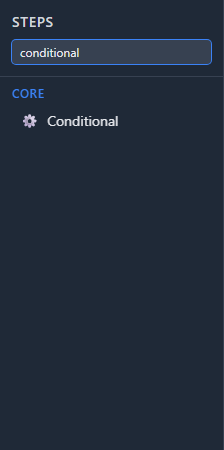
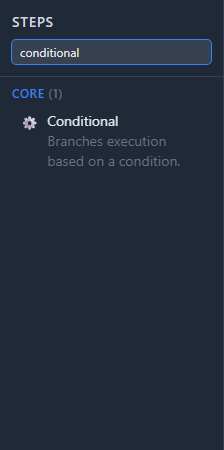
feat(dashboard): improve template and palette discovery
Make the Flowise-style library surfaces easier to use by adding template-browser search, category counts, tag chips, and empty states, plus richer step-palette descriptions and description-aware filtering. The slice is covered by the template-browser scenarios and the existing palette-search UI flow, and the dashboard screenshots were refreshed to match the updated experience.

Changed region(s): [[0.1875, 0.28, 0.8125, 0.3733], [0.0938, 0.2489, 0.1875, 0.3111], [0.2188, 0.1867, 0.2812, 0.2178]]

diff --git a/tests/WorkflowFramework.Dashboard.UITests/Features/Templates.feature.cs b/tests/WorkflowFramework.Dashboard.UITests/Features/Templates.feature.cs
@@ -124,55 +124,77 @@ Feature: Templates
     And I select a template
     And I click ""Use This Template""
     Then a new workflow should be created with the template steps
+
+  Scenario: Filter templates by search
+    Given the dashboard is running
+    When I open the template browser
+    And I search templates for ""agent""
+    Then I should only see template results matching ""agent""
 ", global::Io.Cucumber.Messages.Types.SourceMediaType.TEXT_X_CUCUMBER_GHERKIN_PLAIN);
         }
         
         private static global::Io.Cucumber.Messages.Types.GherkinDocument GherkinDocumentFunc()
         {
             return new global::Io.Cucumber.Messages.Types.GherkinDocument("Features/Templates.feature", new global::Io.Cucumber.Messages.Types.Feature(new global::Io.Cucumber.Messages.Types.Location(2, new System.Nullable<long>(1)), new System.Collections.Generic.List<global::Io.Cucumber.Messages.Types.Tag>(new global::Io.Cucumber.Messages.Types.Tag[] {
-                                new global::Io.Cucumber.Messages.Types.Tag(new global::Io.Cucumber.Messages.Types.Location(1, new System.Nullable<long>(1)), "@UI", "1039a7369a57a350928fdfa977e7f34f")}), "en", "Feature", "Templates", "  As a user I can create workflows from pre-built templates", new System.Collections.Generic.List<global::Io.Cucumber.Messages.Types.FeatureChild>(new global::Io.Cucumber.Messages.Types.FeatureChild[] {
+                                new global::Io.Cucumber.Messages.Types.Tag(new global::Io.Cucumber.Messages.Types.Location(1, new System.Nullable<long>(1)), "@UI", "88f6b904b4efd25580fffa829d8d9b9c")}), "en", "Feature", "Templates", "  As a user I can create workflows from pre-built templates", new System.Collections.Generic.List<global::Io.Cucumber.Messages.Types.FeatureChild>(new global::Io.Cucumber.Messages.Types.FeatureChild[] {
                                 new global::Io.Cucumber.Messages.Types.FeatureChild(null, null, new global::Io.Cucumber.Messages.Types.Scenario(new global::Io.Cucumber.Messages.Types.Location(6, new System.Nullable<long>(3)), new System.Collections.Generic.List<global::Io.Cucumber.Messages.Types.Tag>(new global::Io.Cucumber.Messages.Types.Tag[] {
-                                                    new global::Io.Cucumber.Messages.Types.Tag(new global::Io.Cucumber.Messages.Types.Location(5, new System.Nullable<long>(3)), "@screenshot:template-browser", "1e5e24a1c136835893821f48e5946e72")}), "Scenario", "Browse templates", "", new System.Collections.Generic.List<global::Io.Cucumber.Messages.Types.Step>(new global::Io.Cucumber.Messages.Types.Step[] {
-                                                    new global::Io.Cucumber.Messages.Types.Step(new global::Io.Cucumber.Messages.Types.Location(7, new System.Nullable<long>(5)), "Given ", global::Io.Cucumber.Messages.Types.StepKeywordType.CONTEXT, "the dashboard is running", null, null, "5791ab1fc140675c960ae6f369b49166"),
-                                                    new global::Io.Cucumber.Messages.Types.Step(new global::Io.Cucumber.Messages.Types.Location(8, new System.Nullable<long>(5)), "When ", global::Io.Cucumber.Messages.Types.StepKeywordType.ACTION, "I open the template browser", null, null, "60ecfc0d6fa14b5085c14bbddae71745"),
-                                                    new global::Io.Cucumber.Messages.Types.Step(new global::Io.Cucumber.Messages.Types.Location(9, new System.Nullable<long>(5)), "Then ", global::Io.Cucumber.Messages.Types.StepKeywordType.OUTCOME, "I should see template categories", null, null, "461fd25440b51a50a90a1391e75882f7"),
-                                                    new global::Io.Cucumber.Messages.Types.Step(new global::Io.Cucumber.Messages.Types.Location(10, new System.Nullable<long>(5)), "And ", global::Io.Cucumber.Messages.Types.StepKeywordType.CONJUNCTION, "I should see templates with difficulty badges", null, null, "745ac7d7ddebeb5da666d0b8b72c909b")}), new System.Collections.Generic.List<global::Io.Cucumber.Messages.Types.Examples>(new global::Io.Cucumber.Messages.Types.Examples[0]), "39a62bcb8d334a559b091ce4b3428dca")),
+                                                    new global::Io.Cucumber.Messages.Types.Tag(new global::Io.Cucumber.Messages.Types.Location(5, new System.Nullable<long>(3)), "@screenshot:template-browser", "aa618d0bc0f2eb5f89c0290664591a7e")}), "Scenario", "Browse templates", "", new System.Collections.Generic.List<global::Io.Cucumber.Messages.Types.Step>(new global::Io.Cucumber.Messages.Types.Step[] {
+                                                    new global::Io.Cucumber.Messages.Types.Step(new global::Io.Cucumber.Messages.Types.Location(7, new System.Nullable<long>(5)), "Given ", global::Io.Cucumber.Messages.Types.StepKeywordType.CONTEXT, "the dashboard is running", null, null, "9be35db1764b3856851346447204a660"),
+                                                    new global::Io.Cucumber.Messages.Types.Step(new global::Io.Cucumber.Messages.Types.Location(8, new System.Nullable<long>(5)), "When ", global::Io.Cucumber.Messages.Types.StepKeywordType.ACTION, "I open the template browser", null, null, "9859eb50ae2fbf589c50cfd7b6be028a"),
+                                                    new global::Io.Cucumber.Messages.Types.Step(new global::Io.Cucumber.Messages.Types.Location(9, new System.Nullable<long>(5)), "Then ", global::Io.Cucumber.Messages.Types.StepKeywordType.OUTCOME, "I should see template categories", null, null, "c941dc9d041cfe599b87aa0a1c781a13"),
+                                                    new global::Io.Cucumber.Messages.Types.Step(new global::Io.Cucumber.Messages.Types.Location(10, new System.Nullable<long>(5)), "And ", global::Io.Cucumber.Messages.Types.StepKeywordType.CONJUNCTION, "I should see templates with difficulty badges", null, null, "a8ae74ae9f28e15e8a69cbeaf08fe3a3")}), new System.Collections.Generic.List<global::Io.Cucumber.Messages.Types.Examples>(new global::Io.Cucumber.Messages.Types.Examples[0]), "6893e9265464cf5094702ecf8cc1f9e0")),
                                 new global::Io.Cucumber.Messages.Types.FeatureChild(null, null, new global::Io.Cucumber.Messages.Types.Scenario(new global::Io.Cucumber.Messages.Types.Location(12, new System.Nullable<long>(3)), new System.Collections.Generic.List<global::Io.Cucumber.Messages.Types.Tag>(new global::Io.Cucumber.Messages.Types.Tag[0]), "Scenario", "Create workflow from template", "", new System.Collections.Generic.List<global::Io.Cucumber.Messages.Types.Step>(new global::Io.Cucumber.Messages.Types.Step[] {
-                                                    new global::Io.Cucumber.Messages.Types.Step(new global::Io.Cucumber.Messages.Types.Location(13, new System.Nullable<long>(5)), "Given ", global::Io.Cucumber.Messages.Types.StepKeywordType.CONTEXT, "the dashboard is running", null, null, "0a797cf473815f58810c09f495e43bb8"),
-                                                    new global::Io.Cucumber.Messages.Types.Step(new global::Io.Cucumber.Messages.Types.Location(14, new System.Nullable<long>(5)), "When ", global::Io.Cucumber.Messages.Types.StepKeywordType.ACTION, "I open the template browser", null, null, "32aabcd7e6bd185e9dc8f12303568c3d"),
-                                                    new global::Io.Cucumber.Messages.Types.Step(new global::Io.Cucumber.Messages.Types.Location(15, new System.Nullable<long>(5)), "And ", global::Io.Cucumber.Messages.Types.StepKeywordType.CONJUNCTION, "I select a template", null, null, "2e48d5786ce18e59955deff7aed98d87"),
-                                                    new global::Io.Cucumber.Messages.Types.Step(new global::Io.Cucumber.Messages.Types.Location(16, new System.Nullable<long>(5)), "And ", global::Io.Cucumber.Messages.Types.StepKeywordType.CONJUNCTION, "I click \"Use This Template\"", null, null, "954326a4e4829157960e265fe892f925"),
-                                                    new global::Io.Cucumber.Messages.Types.Step(new global::Io.Cucumber.Messages.Types.Location(17, new System.Nullable<long>(5)), "Then ", global::Io.Cucumber.Messages.Types.StepKeywordType.OUTCOME, "a new workflow should be created with the template steps", null, null, "52b5f0bbfe5ff059a2e2fb1c046ca470")}), new System.Collections.Generic.List<global::Io.Cucumber.Messages.Types.Examples>(new global::Io.Cucumber.Messages.Types.Examples[0]), "bcbe0e7051069159aa66e85e4ec8e7b7"))})), new System.Collections.Generic.List<global::Io.Cucumber.Messages.Types.Comment>(new global::Io.Cucumber.Messages.Types.Comment[0]));
+                                                    new global::Io.Cucumber.Messages.Types.Step(new global::Io.Cucumber.Messages.Types.Location(13, new System.Nullable<long>(5)), "Given ", global::Io.Cucumber.Messages.Types.StepKeywordType.CONTEXT, "the dashboard is running", null, null, "0f00c6d12fe8e6568ad837a18f83742d"),
+                                                    new global::Io.Cucumber.Messages.Types.Step(new global::Io.Cucumber.Messages.Types.Location(14, new System.Nullable<long>(5)), "When ", global::Io.Cucumber.Messages.Types.StepKeywordType.ACTION, "I open the template browser", null, null, "bbad3e7c73989f59b4c9414b33557b8e"),
+                                                    new global::Io.Cucumber.Messages.Types.Step(new global::Io.Cucumber.Messages.Types.Location(15, new System.Nullable<long>(5)), "And ", global::Io.Cucumber.Messages.Types.StepKeywordType.CONJUNCTION, "I select a template", null, null, "620dd08184d5e457914320f22fd93651"),
+                                                    new global::Io.Cucumber.Messages.Types.Step(new global::Io.Cucumber.Messages.Types.Location(16, new System.Nullable<long>(5)), "And ", global::Io.Cucumber.Messages.Types.StepKeywordType.CONJUNCTION, "I click \"Use This Template\"", null, null, "4ad19eea05ebc75dbac3e8eac75310ad"),
+                                                    new global::Io.Cucumber.Messages.Types.Step(new global::Io.Cucumber.Messages.Types.Location(17, new System.Nullable<long>(5)), "Then ", global::Io.Cucumber.Messages.Types.StepKeywordType.OUTCOME, "a new workflow should be created with the template steps", null, null, "124a0955f4acfd58814b0cfd9e71d528")}), new System.Collections.Generic.List<global::Io.Cucumber.Messages.Types.Examples>(new global::Io.Cucumber.Messages.Types.Examples[0]), "a73abc16abeb2354bf51de547ad61e46")),
+                                new global::Io.Cucumber.Messages.Types.FeatureChild(null, null, new global::Io.Cucumber.Messages.Types.Scenario(new global::Io.Cucumber.Messages.Types.Location(19, new System.Nullable<long>(3)), new System.Collections.Generic.List<global::Io.Cucumber.Messages.Types.Tag>(new global::Io.Cucumber.Messages.Types.Tag[0]), "Scenario", "Filter templates by search", "", new System.Collections.Generic.List<global::Io.Cucumber.Messages.Types.Step>(new global::Io.Cucumber.Messages.Types.Step[] {
+                                                    new global::Io.Cucumber.Messages.Types.Step(new global::Io.Cucumber.Messages.Types.Location(20, new System.Nullable<long>(5)), "Given ", global::Io.Cucumber.Messages.Types.StepKeywordType.CONTEXT, "the dashboard is running", null, null, "6dac276f69ae7c568500319b4a01320b"),
+                                                    new global::Io.Cucumber.Messages.Types.Step(new global::Io.Cucumber.Messages.Types.Location(21, new System.Nullable<long>(5)), "When ", global::Io.Cucumber.Messages.Types.StepKeywordType.ACTION, "I open the template browser", null, null, "d17c12654b86a15d986e2582adf1c248"),
+                                                    new global::Io.Cucumber.Messages.Types.Step(new global::Io.Cucumber.Messages.Types.Location(22, new System.Nullable<long>(5)), "And ", global::Io.Cucumber.Messages.Types.StepKeywordType.CONJUNCTION, "I search templates for \"agent\"", null, null, "1eb80fe878602051959b72861bd88bcd"),
+                                                    new global::Io.Cucumber.Messages.Types.Step(new global::Io.Cucumber.Messages.Types.Location(23, new System.Nullable<long>(5)), "Then ", global::Io.Cucumber.Messages.Types.StepKeywordType.OUTCOME, "I should only see template results matching \"agent\"", null, null, "2e0e4d37d034c15796f2ac0a23850f3a")}), new System.Collections.Generic.List<global::Io.Cucumber.Messages.Types.Examples>(new global::Io.Cucumber.Messages.Types.Examples[0]), "a73ac91604f4115fbc3b7f6d6ddd06a7"))})), new System.Collections.Generic.List<global::Io.Cucumber.Messages.Types.Comment>(new global::Io.Cucumber.Messages.Types.Comment[0]));
         }
         
         private static global::System.Collections.Generic.IEnumerable<Io.Cucumber.Messages.Types.Pickle> PicklesFunc()
         {
             return new System.Collections.Generic.List<global::Io.Cucumber.Messages.Types.Pickle>(new global::Io.Cucumber.Messages.Types.Pickle[] {
-                        new global::Io.Cucumber.Messages.Types.Pickle("f4bd62e51fe2f453ace1b91c30042b03", "Features/Templates.feature", "Browse templates", "en", new System.Collections.Generic.List<global::Io.Cucumber.Messages.Types.PickleStep>(new global::Io.Cucumber.Messages.Types.PickleStep[] {
+                        new global::Io.Cucumber.Messages.Types.Pickle("41f53af1cf4a1a59a0acf412da824aba", "Features/Templates.feature", "Browse templates", "en", new System.Collections.Generic.List<global::Io.Cucumber.Messages.Types.PickleStep>(new global::Io.Cucumber.Messages.Types.PickleStep[] {
                                         new global::Io.Cucumber.Messages.Types.PickleStep(null, new System.Collections.Generic.List<string>(new string[] {
-                                                        "5791ab1fc140675c960ae6f369b49166"}), "d16d7c859d8e1755b2d32dc993368d91", global::Io.Cucumber.Messages.Types.PickleStepType.CONTEXT, "the dashboard is running"),
+                                                        "9be35db1764b3856851346447204a660"}), "99ea7b5d56159652aca258b2f403635d", global::Io.Cucumber.Messages.Types.PickleStepType.CONTEXT, "the dashboard is running"),
                                         new global::Io.Cucumber.Messages.Types.PickleStep(null, new System.Collections.Generic.List<string>(new string[] {
-                                                        "60ecfc0d6fa14b5085c14bbddae71745"}), "8f34fb8d389d635586b36a3e117bb4ef", global::Io.Cucumber.Messages.Types.PickleStepType.ACTION, "I open the template browser"),
+                                                        "9859eb50ae2fbf589c50cfd7b6be028a"}), "a52f5e0e327b6b5b9e3561aadf25f69d", global::Io.Cucumber.Messages.Types.PickleStepType.ACTION, "I open the template browser"),
                                         new global::Io.Cucumber.Messages.Types.PickleStep(null, new System.Collections.Generic.List<string>(new string[] {
-                                                        "461fd25440b51a50a90a1391e75882f7"}), "216010ded9fce05c979803f2d059fc45", global::Io.Cucumber.Messages.Types.PickleStepType.OUTCOME, "I should see template categories"),
+                                                        "c941dc9d041cfe599b87aa0a1c781a13"}), "b487aaed6e3c3056a39094cfa3e177c0", global::Io.Cucumber.Messages.Types.PickleStepType.OUTCOME, "I should see template categories"),
                                         new global::Io.Cucumber.Messages.Types.PickleStep(null, new System.Collections.Generic.List<string>(new string[] {
-                                                        "745ac7d7ddebeb5da666d0b8b72c909b"}), "ca8a6e5fd7bee5569227d24314eae617", global::Io.Cucumber.Messages.Types.PickleStepType.OUTCOME, "I should see templates with difficulty badges")}), new System.Collections.Generic.List<global::Io.Cucumber.Messages.Types.PickleTag>(new global::Io.Cucumber.Messages.Types.PickleTag[] {
-                                        new global::Io.Cucumber.Messages.Types.PickleTag("@UI", "1039a7369a57a350928fdfa977e7f34f"),
-                                        new global::Io.Cucumber.Messages.Types.PickleTag("@screenshot:template-browser", "1e5e24a1c136835893821f48e5946e72")}), new System.Collections.Generic.List<string>(new string[] {
-                                        "39a62bcb8d334a559b091ce4b3428dca"})),
-                        new global::Io.Cucumber.Messages.Types.Pickle("d6b72a14953c5a5589288ecf48d7a01c", "Features/Templates.feature", "Create workflow from template", "en", new System.Collections.Generic.List<global::Io.Cucumber.Messages.Types.PickleStep>(new global::Io.Cucumber.Messages.Types.PickleStep[] {
+                                                        "a8ae74ae9f28e15e8a69cbeaf08fe3a3"}), "a4105f6d0bc2f350aa04f4b2e0572cb0", global::Io.Cucumber.Messages.Types.PickleStepType.OUTCOME, "I should see templates with difficulty badges")}), new System.Collections.Generic.List<global::Io.Cucumber.Messages.Types.PickleTag>(new global::Io.Cucumber.Messages.Types.PickleTag[] {
+                                        new global::Io.Cucumber.Messages.Types.PickleTag("@UI", "88f6b904b4efd25580fffa829d8d9b9c"),
+                                        new global::Io.Cucumber.Messages.Types.PickleTag("@screenshot:template-browser", "aa618d0bc0f2eb5f89c0290664591a7e")}), new System.Collections.Generic.List<string>(new string[] {
+                                        "6893e9265464cf5094702ecf8cc1f9e0"})),
+                        new global::Io.Cucumber.Messages.Types.Pickle("4b4e0d9a4868fc50800927ce6270fc4d", "Features/Templates.feature", "Create workflow from template", "en", new System.Collections.Generic.List<global::Io.Cucumber.Messages.Types.PickleStep>(new global::Io.Cucumber.Messages.Types.PickleStep[] {
                                         new global::Io.Cucumber.Messages.Types.PickleStep(null, new System.Collections.Generic.List<string>(new string[] {
-                                                        "0a797cf473815f58810c09f495e43bb8"}), "2d11dddc7abba65fa33231953cfd8fbe", global::Io.Cucumber.Messages.Types.PickleStepType.CONTEXT, "the dashboard is running"),
+                                                        "0f00c6d12fe8e6568ad837a18f83742d"}), "fe53ae9fe6c278539962e01464c63995", global::Io.Cucumber.Messages.Types.PickleStepType.CONTEXT, "the dashboard is running"),
                                         new global::Io.Cucumber.Messages.Types.PickleStep(null, new System.Collections.Generic.List<string>(new string[] {
-                                                        "32aabcd7e6bd185e9dc8f12303568c3d"}), "673fdb39bceef752a6742d6017c2dfad", global::Io.Cucumber.Messages.Types.PickleStepType.ACTION, "I open the template browser"),
+                                                        "bbad3e7c73989f59b4c9414b33557b8e"}), "6ca8ea8994a8505ba04053b897aee7d1", global::Io.Cucumber.Messages.Types.PickleStepType.ACTION, "I open the template browser"),
                                         new global::Io.Cucumber.Messages.Types.PickleStep(null, new System.Collections.Generic.List<string>(new string[] {
-                                                        "2e48d5786ce18e59955deff7aed98d87"}), "00b546d54930a4578df9c3b6f271c92c", global::Io.Cucumber.Messages.Types.PickleStepType.ACTION, "I select a template"),
+                                                        "620dd08184d5e457914320f22fd93651"}), "81ee9d5691bcf956829ef5ba119b0da2", global::Io.Cucumber.Messages.Types.PickleStepType.ACTION, "I select a template"),
                                         new global::Io.Cucumber.Messages.Types.PickleStep(null, new System.Collections.Generic.List<string>(new string[] {
-                                                        "954326a4e4829157960e265fe892f925"}), "a8a0bbb9c5208c5e9e8eb1d3ae356862", global::Io.Cucumber.Messages.Types.PickleStepType.ACTION, "I click \"Use This Template\""),
+                                                        "4ad19eea05ebc75dbac3e8eac75310ad"}), "6cf8532fa72ff35cafeb40ef6e8393de", global::Io.Cucumber.Messages.Types.PickleStepType.ACTION, "I click \"Use This Template\""),
                                         new global::Io.Cucumber.Messages.Types.PickleStep(null, new System.Collections.Generic.List<string>(new string[] {
-                                                        "52b5f0bbfe5ff059a2e2fb1c046ca470"}), "8b067ad07188705a836e034e03451587", global::Io.Cucumber.Messages.Types.PickleStepType.OUTCOME, "a new workflow should be created with the template steps")}), new System.Collections.Generic.List<global::Io.Cucumber.Messages.Types.PickleTag>(new global::Io.Cucumber.Messages.Types.PickleTag[] {
-                                        new global::Io.Cucumber.Messages.Types.PickleTag("@UI", "1039a7369a57a350928fdfa977e7f34f")}), new System.Collections.Generic.List<string>(new string[] {
-                                        "bcbe0e7051069159aa66e85e4ec8e7b7"}))});
+                                                        "124a0955f4acfd58814b0cfd9e71d528"}), "bb50c13054b9f65f993d76465cbd2550", global::Io.Cucumber.Messages.Types.PickleStepType.OUTCOME, "a new workflow should be created with the template steps")}), new System.Collections.Generic.List<global::Io.Cucumber.Messages.Types.PickleTag>(new global::Io.Cucumber.Messages.Types.PickleTag[] {
+                                        new global::Io.Cucumber.Messages.Types.PickleTag("@UI", "88f6b904b4efd25580fffa829d8d9b9c")}), new System.Collections.Generic.List<string>(new string[] {
+                                        "a73abc16abeb2354bf51de547ad61e46"})),
+                        new global::Io.Cucumber.Messages.Types.Pickle("259a187bf23fef5d9cf1c78598817c57", "Features/Templates.feature", "Filter templates by search", "en", new System.Collections.Generic.List<global::Io.Cucumber.Messages.Types.PickleStep>(new global::Io.Cucumber.Messages.Types.PickleStep[] {
+                                        new global::Io.Cucumber.Messages.Types.PickleStep(null, new System.Collections.Generic.List<string>(new string[] {
+                                                        "6dac276f69ae7c568500319b4a01320b"}), "48b5999e018635599123622cbb393600", global::Io.Cucumber.Messages.Types.PickleStepType.CONTEXT, "the dashboard is running"),
+                                        new global::Io.Cucumber.Messages.Types.PickleStep(null, new System.Collections.Generic.List<string>(new string[] {
+                                                        "d17c12654b86a15d986e2582adf1c248"}), "5e2b01010b87da58a74b4e4f42e5f728", global::Io.Cucumber.Messages.Types.PickleStepType.ACTION, "I open the template browser"),
+                                        new global::Io.Cucumber.Messages.Types.PickleStep(null, new System.Collections.Generic.List<string>(new string[] {
+                                                        "1eb80fe878602051959b72861bd88bcd"}), "015614120fe2af5fadb8254ee6501c67", global::Io.Cucumber.Messages.Types.PickleStepType.ACTION, "I search templates for \"agent\""),
+                                        new global::Io.Cucumber.Messages.Types.PickleStep(null, new System.Collections.Generic.List<string>(new string[] {
+                                                        "2e0e4d37d034c15796f2ac0a23850f3a"}), "8e3a61a038f2c350b9ad5a687cfdb6b6", global::Io.Cucumber.Messages.Types.PickleStepType.OUTCOME, "I should only see template results matching \"agent\"")}), new System.Collections.Generic.List<global::Io.Cucumber.Messages.Types.PickleTag>(new global::Io.Cucumber.Messages.Types.PickleTag[] {
+                                        new global::Io.Cucumber.Messages.Types.PickleTag("@UI", "88f6b904b4efd25580fffa829d8d9b9c")}), new System.Collections.Generic.List<string>(new string[] {
+                                        "a73ac91604f4115fbc3b7f6d6ddd06a7"}))});
         }
         
         private static global::Reqnroll.Formatters.RuntimeSupport.FeatureLevelCucumberMessages InitializeCucumberMessages()
@@ -279,6 +301,43 @@ Feature: Templates
 #line hidden
 #line 17
     await testRunner.ThenAsync("a new workflow should be created with the template steps", ((string)(null)), ((global::Reqnroll.Table)(null)), "Then ");
+#line hidden
+            }
+            await this.ScenarioCleanupAsync();
+        }
+        
+        [global::Xunit.SkippableFactAttribute(DisplayName="Filter templates by search")]
+        [global::Xunit.TraitAttribute("FeatureTitle", "Templates")]
+        [global::Xunit.TraitAttribute("Description", "Filter templates by search")]
+        public async global::System.Threading.Tasks.Task FilterTemplatesBySearch()
+        {
+            string[] tagsOfScenario = ((string[])(null));
+            global::System.Collections.Specialized.OrderedDictionary argumentsOfScenario = new global::System.Collections.Specialized.OrderedDictionary();
+            string pickleIndex = "2";
+            global::Reqnroll.ScenarioInfo scenarioInfo = new global::Reqnroll.ScenarioInfo("Filter templates by search", null, tagsOfScenario, argumentsOfScenario, featureTags, pickleIndex);
+            string[] tagsOfRule = ((string[])(null));
+            global::Reqnroll.RuleInfo ruleInfo = null;
+#line 19
+  this.ScenarioInitialize(scenarioInfo, ruleInfo);
+#line hidden
+            if ((global::Reqnroll.TagHelper.ContainsIgnoreTag(scenarioInfo.CombinedTags) || global::Reqnroll.TagHelper.ContainsIgnoreTag(featureTags)))
+            {
+                await testRunner.SkipScenarioAsync();
+            }
+            else
+            {
+                await this.ScenarioStartAsync();
+#line 20
+    await testRunner.GivenAsync("the dashboard is running", ((string)(null)), ((global::Reqnroll.Table)(null)), "Given ");
+#line hidden
+#line 21
+    await testRunner.WhenAsync("I open the template browser", ((string)(null)), ((global::Reqnroll.Table)(null)), "When ");
+#line hidden
+#line 22
+    await testRunner.AndAsync("I search templates for \"agent\"", ((string)(null)), ((global::Reqnroll.Table)(null)), "And ");
+#line hidden
+#line 23
+    await testRunner.ThenAsync("I should only see template results matching \"agent\"", ((string)(null)), ((global::Reqnroll.Table)(null)), "Then ");
 #line hidden
             }
             await this.ScenarioCleanupAsync();

diff --git a/tests/WorkflowFramework.Dashboard.UITests/StepDefinitions/TemplateSteps.cs b/tests/WorkflowFramework.Dashboard.UITests/StepDefinitions/TemplateSteps.cs
@@ -53,6 +53,14 @@ public sealed class TemplateSteps
         await template.EvaluateAsync("el => el.click()");
     }
 
+    [When("I search templates for {string}")]
+    public async Task WhenISearchTemplatesFor(string searchTerm)
+    {
+        var search = Page.Locator("[data-testid='template-search']");
+        await search.FillAsync(searchTerm);
+        await Page.WaitForTimeoutAsync(250);
+    }
+
     [When("I click {string}")]
     public async Task WhenIClick(string buttonText)
     {
@@ -67,6 +75,21 @@ public sealed class TemplateSteps
     {
         var canvas = Page.Locator("#workflow-canvas");
         await canvas.WaitForAsync(new LocatorWaitForOptions { Timeout = 10_000 });
+    }
+
+    [Then("I should only see template results matching {string}")]
+    public async Task ThenIShouldOnlySeeTemplateResultsMatching(string searchTerm)
+    {
+        var templates = Page.Locator("[data-testid='template-card']");
+        var count = await templates.CountAsync();
+        count.Should().BeGreaterThan(0);
+
+        var loweredSearchTerm = searchTerm.ToLowerInvariant();
+        for (var index = 0; index < count; index++)
+        {
+            var text = (await templates.Nth(index).InnerTextAsync()).ToLowerInvariant();
+            text.Should().Contain(loweredSearchTerm);
+        }
     }
 }
 

diff --git a/src/WorkflowFramework.Dashboard.Web/Models/StepDefinition.cs b/src/WorkflowFramework.Dashboard.Web/Models/StepDefinition.cs
@@ -4,6 +4,7 @@ public sealed class StepDefinition
 {
     public string Type { get; init; } = "";
     public string Name { get; init; } = "";
+    public string? Description { get; init; }
     public string Icon { get; init; } = "";
     public string Category { get; init; } = "";
     public string Color { get; init; } = "";
